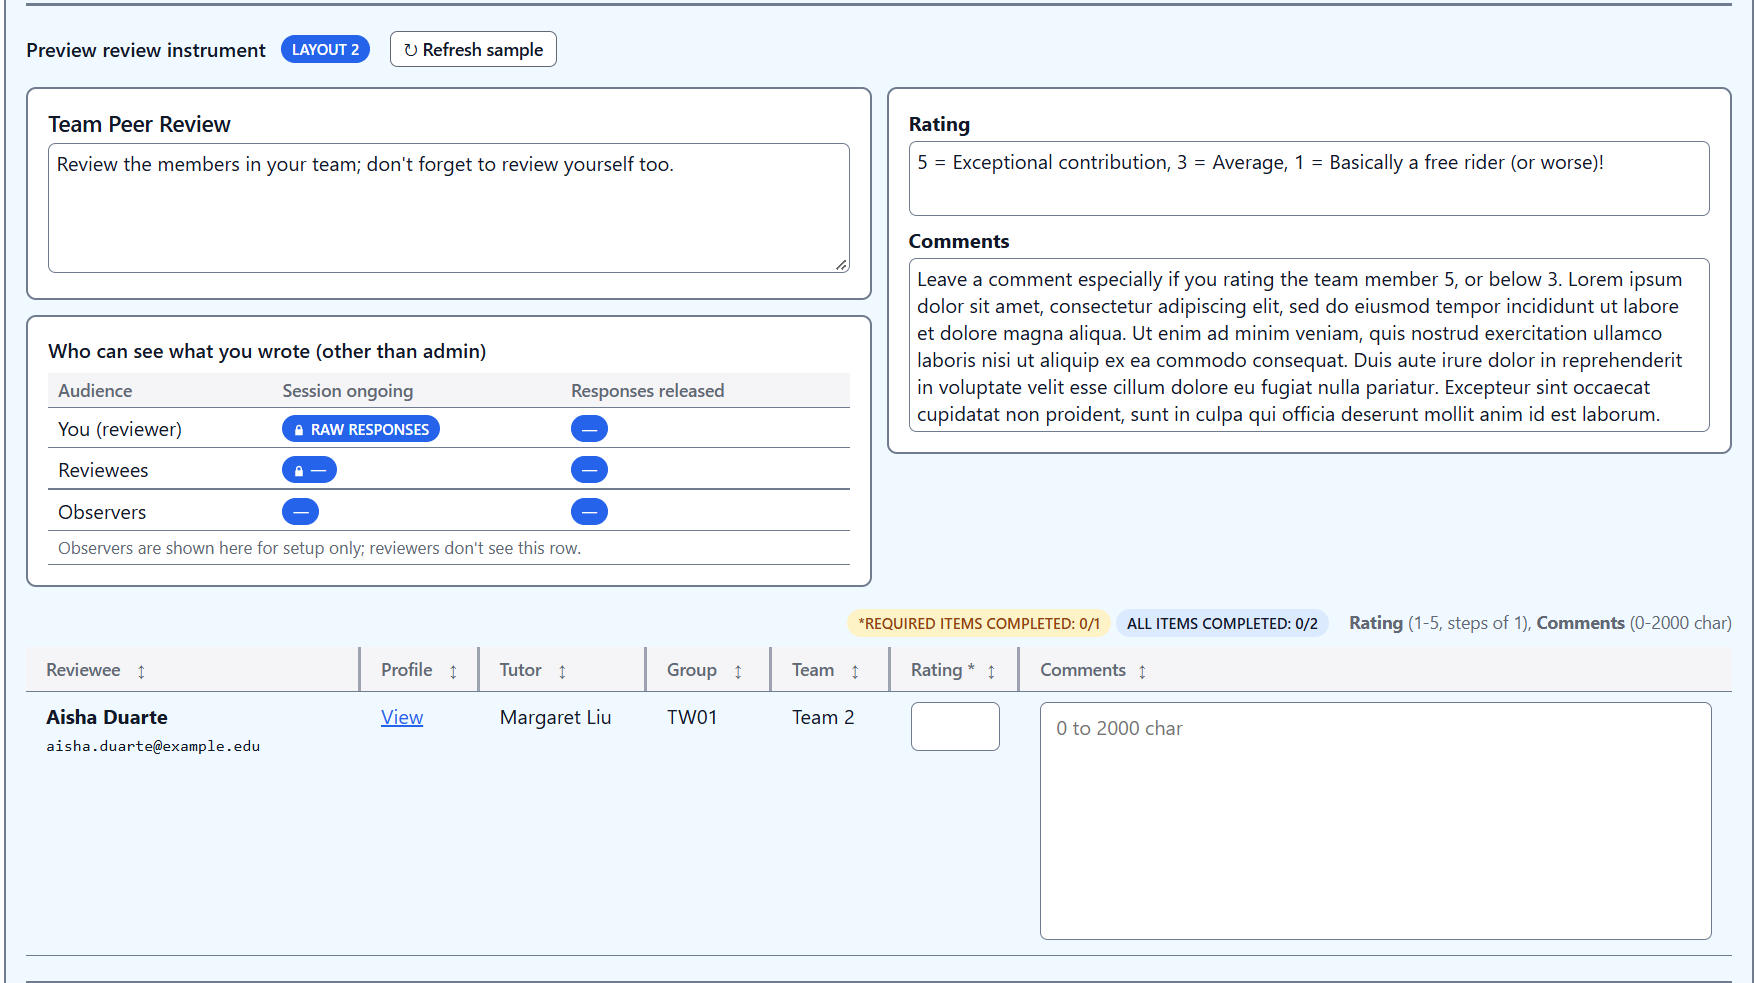
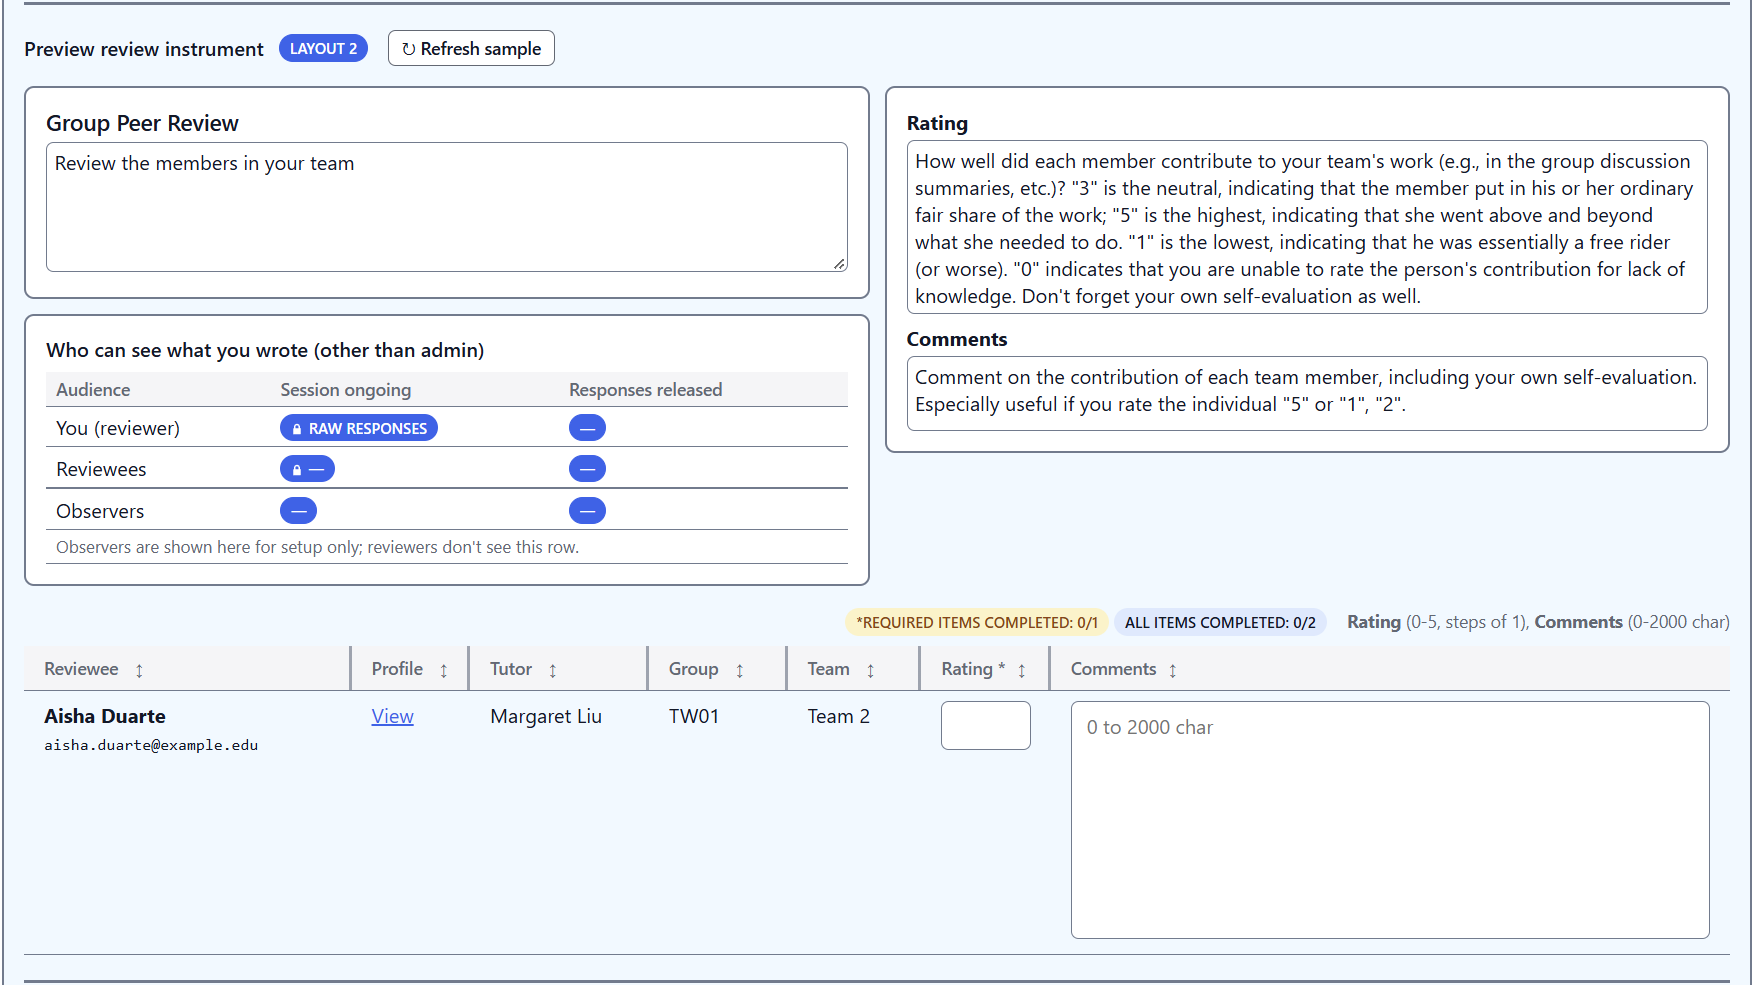
19Y Item 7 follow-up: Band 2 screencaps from one instrument
The author's Guide_6b.docx reshoots both Band 2 preview pairs (unlocked
and locked, light and dark) from one instrument, Group Peer Review, so
the unlocked boxes hold the text the locked preview shows. The alt text
and prose still hold. Item 7's Status and its browser-check row record
the follow-up.

Claude-Session: https://claude.ai/code/session_0116Ns1HgCKeKutgZT3Tje64

diff --git a/guide/segment_19Y_more_ux_refinements.md b/guide/segment_19Y_more_ux_refinements.md
@@ -721,16 +721,20 @@ Taken 2026-10-21 at `d63f80b7`.
 
 ### Status
 
-**Closed 2026-10-21** in one PR, as laddered, with the document's text
-and images taken as written.
+**Closed 2026-10-21** in one PR, as laddered (#3184), with the
+document's text and images taken as written, then a follow-up PR
+swapping the two Band 2 pairs.
 
-- **What moved from the plan.** Nothing. This settles the screencap
-  reshoot that Items 1 and 2 left owed by the author (Layout 2). The
-  unlocked and locked previews show different instruments; the alt text
-  names what each one shows.
-- **Reads.** One `diff-reviewer` read found no defect in the change. It
-  flagged this missing block, which is now written, and corrected the
-  Create session alt text's placement of "Release responses until".
+- **What moved from the plan.** Only the follow-up below. This settles
+  the screencap reshoot that Items 1 and 2 left owed by the author
+  (Layout 2). The
+  two Band 2 previews first showed different instruments; the author
+  reshot the unlocked and locked pairs from one instrument
+  (`Guide_6b.docx`, a follow-up PR), and the alt text stood.
+- **Reads.** Two `diff-reviewer` reads, one per PR; neither found a
+  defect. The first flagged this missing block, which is now written,
+  and corrected the Create session alt text's placement of "Release
+  responses until".
   `spec-writer`: no spec in Doc impact; no spec names these screencaps.
 - **Owed by the author:** the browser-check row in
   `guide/things_to_check_in_browser.md`.

diff --git a/guide/things_to_check_in_browser.md b/guide/things_to_check_in_browser.md
@@ -62,4 +62,5 @@ deployment, not a local run.
 - [ ] **The Guide shows the new screencaps.** Open `/guide` in light and
   dark: Create session, both roster cards and both Band 2 previews
   (unlocked, then locked) show the new images in the right theme, and
-  the Band 2 text reads as in `Guide_6a.docx`.
+  the Band 2 text reads as in `Guide_6a.docx`; both Band 2 previews
+  show the same instrument (`Guide_6b.docx`).
